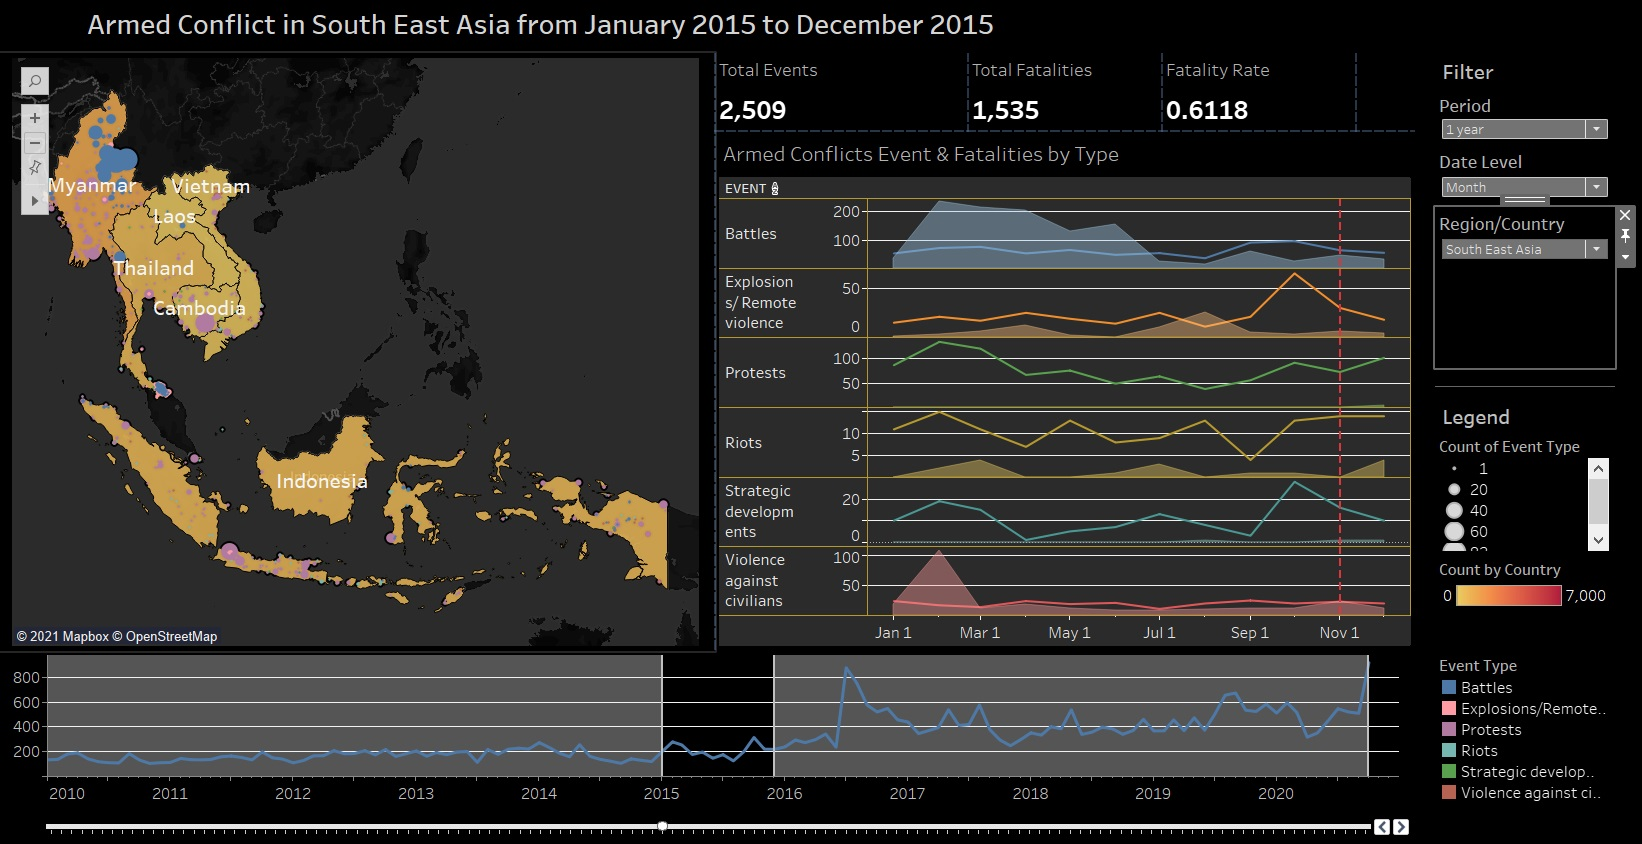
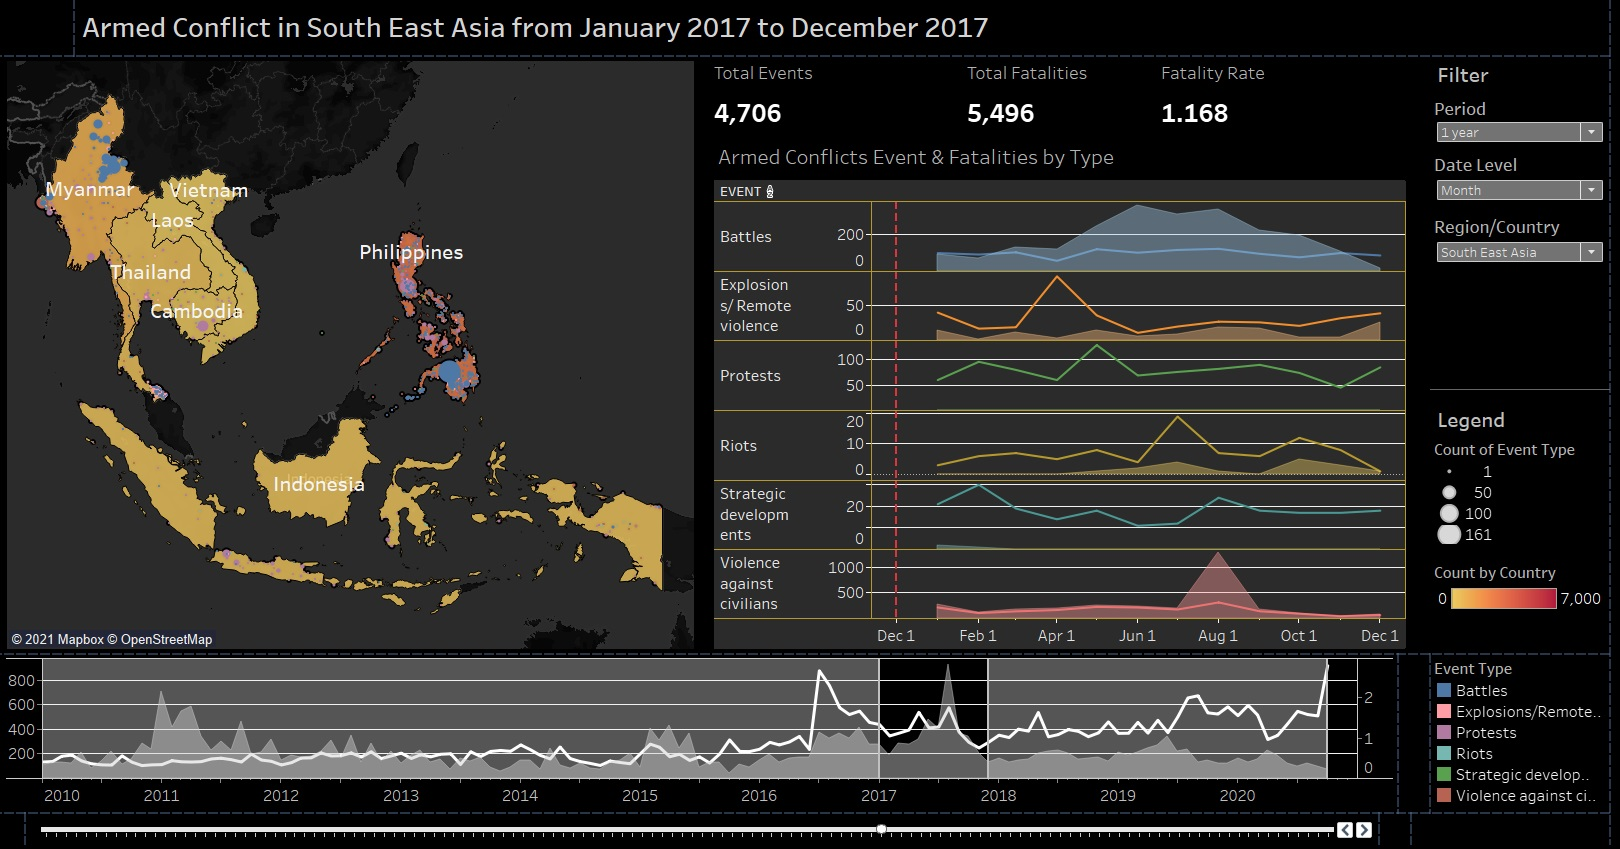
21 mar 2021 afternoon

diff --git a/_posts/dataviz3/DataViz3.html b/_posts/dataviz3/DataViz3.html
@@ -115,7 +115,7 @@ code span.wa { color: #5e5e5e; font-style: italic; } /* Warning */
   <!--/radix_placeholder_rmarkdown_metadata-->
   
   <script type="text/json" id="radix-resource-manifest">
-  {"type":"character","attributes":{},"value":["DataViz2_files/anchor-4.2.2/anchor.min.js","DataViz2_files/bowser-1.9.3/bowser.min.js","DataViz2_files/distill-2.2.21/template.v2.js","DataViz2_files/jquery-1.11.3/jquery.min.js","DataViz2_files/webcomponents-2.0.0/webcomponents.js","DataViz3_files/anchor-4.2.2/anchor.min.js","DataViz3_files/bowser-1.9.3/bowser.min.js","DataViz3_files/distill-2.2.21/template.v2.js","DataViz3_files/header-attrs-2.6/header-attrs.js","DataViz3_files/jquery-1.11.3/jquery.min.js","DataViz3_files/webcomponents-2.0.0/webcomponents.js","DataViz3_Images/Alternate.jpg","DataViz3_Images/Alternate1.jpg","DataViz3_Images/Critique.jpg","DataViz3_Images/Critique_2.jpg","DataViz3_Images/Critique_3.jpg","DataViz3_Images/Critique_4.jpg","DataViz3_Images/ob1.jpg","DataViz3_Images/ob2.jpg","DataViz3_Images/step1_a.jpg","DataViz3_Images/step1_b.jpg","DataViz3_Images/step10.jpg","DataViz3_Images/step11.jpg","DataViz3_Images/step12.jpg","DataViz3_Images/step13.jpg","DataViz3_Images/step14.jpg","DataViz3_Images/step15.jpg","DataViz3_Images/step16.jpg","DataViz3_Images/step17.jpg","DataViz3_Images/step18.jpg","DataViz3_Images/step19.jpg","DataViz3_Images/step2.jpg","DataViz3_Images/step20.jpg","DataViz3_Images/step20_2.jpg","DataViz3_Images/step20_3.jpg","DataViz3_Images/step20_4.jpg","DataViz3_Images/step20_5.jpg","DataViz3_Images/step20_6.jpg","DataViz3_Images/step21.jpg","DataViz3_Images/step22.jpg","DataViz3_Images/step23.jpg","DataViz3_Images/step24.jpg","DataViz3_Images/step25.jpg","DataViz3_Images/step26.jpg","DataViz3_Images/step27.jpg","DataViz3_Images/step28.jpg","DataViz3_Images/step29.jpg","DataViz3_Images/step3.jpg","DataViz3_Images/step30.jpg","DataViz3_Images/step31.jpg","DataViz3_Images/step32.jpg","DataViz3_Images/step33.jpg","DataViz3_Images/step34.jpg","DataViz3_Images/step35.jpg","DataViz3_Images/step36.jpg","DataViz3_Images/step37.jpg","DataViz3_Images/step38.jpg","DataViz3_Images/step39.jpg","DataViz3_Images/step4.jpg","DataViz3_Images/step40.jpg","DataViz3_Images/step41.jpg","DataViz3_Images/step42.jpg","DataViz3_Images/step43.jpg","DataViz3_Images/step44.jpg","DataViz3_Images/step45.jpg","DataViz3_Images/step46.jpg","DataViz3_Images/step47.jpg","DataViz3_Images/step48.jpg","DataViz3_Images/step49.jpg","DataViz3_Images/step5.jpg","DataViz3_Images/step50.jpg","DataViz3_Images/step51.jpg","DataViz3_Images/step52.jpg","DataViz3_Images/step53.jpg","DataViz3_Images/step54.jpg","DataViz3_Images/step55.jpg","DataViz3_Images/step56.jpg","DataViz3_Images/step57.jpg","DataViz3_Images/step58.jpg","DataViz3_Images/step59.jpg","DataViz3_Images/step6.jpg","DataViz3_Images/step60.jpg","DataViz3_Images/step61.jpg","DataViz3_Images/step62.jpg","DataViz3_Images/step63.jpg","DataViz3_Images/step64.jpg","DataViz3_Images/step65.jpg","DataViz3_Images/step66.jpg","DataViz3_Images/step7.jpg","DataViz3_Images/step8.jpg","DataViz3_Images/step9.jpg"]}
+  {"type":"character","attributes":{},"value":["DataViz2_files/anchor-4.2.2/anchor.min.js","DataViz2_files/bowser-1.9.3/bowser.min.js","DataViz2_files/distill-2.2.21/template.v2.js","DataViz2_files/jquery-1.11.3/jquery.min.js","DataViz2_files/webcomponents-2.0.0/webcomponents.js","DataViz3_files/anchor-4.2.2/anchor.min.js","DataViz3_files/bowser-1.9.3/bowser.min.js","DataViz3_files/distill-2.2.21/template.v2.js","DataViz3_files/header-attrs-2.6/header-attrs.js","DataViz3_files/jquery-1.11.3/jquery.min.js","DataViz3_files/webcomponents-2.0.0/webcomponents.js","DataViz3_Images/Alternate.jpg","DataViz3_Images/Alternate1.jpg","DataViz3_Images/Critique.jpg","DataViz3_Images/Critique_2.jpg","DataViz3_Images/Critique_3.jpg","DataViz3_Images/Critique_4.jpg","DataViz3_Images/extra1.jpg","DataViz3_Images/extra2.jpg","DataViz3_Images/extra3.jpg","DataViz3_Images/extra4.jpg","DataViz3_Images/extra5.jpg","DataViz3_Images/ob1.jpg","DataViz3_Images/ob2.jpg","DataViz3_Images/ob3.jpg","DataViz3_Images/ob4.jpg","DataViz3_Images/ob4_2.jpg","DataViz3_Images/ob5.jpg","DataViz3_Images/step1_a.jpg","DataViz3_Images/step1_b.jpg","DataViz3_Images/step10.jpg","DataViz3_Images/step11.jpg","DataViz3_Images/step12.jpg","DataViz3_Images/step13.jpg","DataViz3_Images/step14.jpg","DataViz3_Images/step15.jpg","DataViz3_Images/step16.jpg","DataViz3_Images/step17.jpg","DataViz3_Images/step18.jpg","DataViz3_Images/step19.jpg","DataViz3_Images/step2.jpg","DataViz3_Images/step20.jpg","DataViz3_Images/step20_2.jpg","DataViz3_Images/step20_3.jpg","DataViz3_Images/step20_4.jpg","DataViz3_Images/step20_5.jpg","DataViz3_Images/step20_6.jpg","DataViz3_Images/step21.jpg","DataViz3_Images/step22.jpg","DataViz3_Images/step23.jpg","DataViz3_Images/step24.jpg","DataViz3_Images/step25.jpg","DataViz3_Images/step26.jpg","DataViz3_Images/step27.jpg","DataViz3_Images/step28.jpg","DataViz3_Images/step29.jpg","DataViz3_Images/step3.jpg","DataViz3_Images/step30.jpg","DataViz3_Images/step31.jpg","DataViz3_Images/step32.jpg","DataViz3_Images/step33.jpg","DataViz3_Images/step34.jpg","DataViz3_Images/step35.jpg","DataViz3_Images/step36.jpg","DataViz3_Images/step37.jpg","DataViz3_Images/step38.jpg","DataViz3_Images/step39.jpg","DataViz3_Images/step4.jpg","DataViz3_Images/step40.jpg","DataViz3_Images/step41.jpg","DataViz3_Images/step42.jpg","DataViz3_Images/step43.jpg","DataViz3_Images/step44.jpg","DataViz3_Images/step45.jpg","DataViz3_Images/step46.jpg","DataViz3_Images/step47.jpg","DataViz3_Images/step48.jpg","DataViz3_Images/step49.jpg","DataViz3_Images/step5.jpg","DataViz3_Images/step50.jpg","DataViz3_Images/step51.jpg","DataViz3_Images/step52.jpg","DataViz3_Images/step53.jpg","DataViz3_Images/step54.jpg","DataViz3_Images/step55.jpg","DataViz3_Images/step56.jpg","DataViz3_Images/step57.jpg","DataViz3_Images/step58.jpg","DataViz3_Images/step59.jpg","DataViz3_Images/step6.jpg","DataViz3_Images/step60.jpg","DataViz3_Images/step61.jpg","DataViz3_Images/step62.jpg","DataViz3_Images/step63.jpg","DataViz3_Images/step64.jpg","DataViz3_Images/step65.jpg","DataViz3_Images/step66.jpg","DataViz3_Images/step7.jpg","DataViz3_Images/step8.jpg","DataViz3_Images/step9.jpg"]}
   </script>
   <!--radix_placeholder_navigation_in_header-->
   <!--/radix_placeholder_navigation_in_header-->
@@ -1707,6 +1707,15 @@ img {
 <figure>
 <img src="DataViz3_Images/step38.jpg" style="width:100.0%" alt="The color is solved" /><figcaption aria-hidden="true">The color is solved</figcaption>
 </figure>
+<p>Unfortunately, setting a fixed value for the color has its shortcoming as the next step is to add a parameter to allow user to dynamically switch the choropleth from “No. of events” to “fatality” or even “fatality rate”; “No. of events” and “fatality” have different range and fixing it will cause a misrepresentation of the colors.</p>
+<p>Nonetheless, the parameter to toggle between different statistic of interest has the following settings.</p>
+<figure>
+<img src="DataViz3_Images/extra3.jpg" style="width:70.0%" alt="Parameter setting for statistics selection" /><figcaption aria-hidden="true">Parameter setting for statistics selection</figcaption>
+</figure>
+<p>An accompanying calculated field is used to allow user to toggle the statistics.</p>
+<figure>
+<img src="DataViz3_Images/extra4.jpg" style="width:100.0%" alt="Parameter setting for statistics selection" /><figcaption aria-hidden="true">Parameter setting for statistics selection</figcaption>
+</figure>
 <p>Same [Event Date (ref)] filter will be applied to this worksheet so that the visualization would change accordingly based on the selection in the Slider.</p>
 <figure>
 <img src="DataViz3_Images/step39.jpg" style="width:70.0%" alt="Filter setting on Event Date (Ref)" /><figcaption aria-hidden="true">Filter setting on Event Date (Ref)</figcaption>
@@ -1815,6 +1824,16 @@ img {
 <figure>
 <img src="DataViz3_Images/step65.jpg" style="width:90.0%" alt="Settings to insert are graph to show fatalities" /><figcaption aria-hidden="true">Settings to insert are graph to show fatalities</figcaption>
 </figure>
+<p>To make the slider to be more consistent with the rest of the visualization, an area graph showing fatality is added and the color of the charts are changed to white to avoid having the same color as the stacked line chart.</p>
+<p>The setting of the slider can be seen here.</p>
+<figure>
+<img src="DataViz3_Images/extra1.jpg" style="width:90.0%" alt="Fatality area chart added to the slider and te color was changed to white" /><figcaption aria-hidden="true">Fatality area chart added to the slider and te color was changed to white</figcaption>
+</figure>
+<p>It is ensured that the filters selected on the dashboard of one worksheet will be reflected to the rest.</p>
+<p>A filter action is required as selection of the country on the map would not result in a filter of the data. The setting of the action is shown below. With this action, any selection of country on the map will filter the data accordingly across the dashboard and any release of it will un-filter.</p>
+<figure>
+<img src="DataViz3_Images/extra5.jpg" style="width:70.0%" alt="Setting of action filter" /><figcaption aria-hidden="true">Setting of action filter</figcaption>
+</figure>
 <p>With all of the changes made, the final dashboard is completed.</p>
 <figure>
 <img src="DataViz3_Images/step66.jpg" style="width:100.0%" alt="Final Dashboard" /><figcaption aria-hidden="true">Final Dashboard</figcaption>
@@ -1831,6 +1850,19 @@ img {
 <img src="DataViz3_Images/ob2.jpg" style="width:100.0%" alt="Vietnam" /><figcaption aria-hidden="true">Vietnam</figcaption>
 </figure>
 <p>Vietnam recorded the lowest number of fatality and fatality rate among the countries listed in the visualization. From the perspective of the ACLED, Vietnam might be one of the safest country among the countries listed in the visualization.</p>
+<h3 id="armed-conflict-events-are-on-the-rise-in-south-east-asia-region">Armed conflict events are on the rise in South East Asia region</h3>
+<figure>
+<img src="DataViz3_Images/ob3.jpg" style="width:100.0%" alt="Rising number of armed conflicts" /><figcaption aria-hidden="true">Rising number of armed conflicts</figcaption>
+</figure>
+<p>There is a upwards trend for the number of events being recorded in the South East Asia region over the years. While the fatality rate is relatively low, the fact that the number is on the rise can be a concern as this can be a sign of destabilization of the region. Hence, there is a greater need for the ASEAN leaders to work toegether to safeguard the stability of the region.</p>
+<h3 id="myanmar-and-philippines-with-the-highest-fatality-in-the-region">Myanmar and Philippines with the highest fatality in the region</h3>
+<p><img src="DataViz3_Images/ob4.jpg" style="width:100.0%" alt="High no. of events in Myanmar and Philippines" /> <img src="DataViz3_Images/ob4_2.jpg" style="width:100.0%" alt="High fatalities in Myanmar and Philippines" /></p>
+<p>Myanmar and Philippines have have the highest number of fatalities and armed conflict events over the years and this is due to various internal issues the countries are facing. Hence, regional leaders may offer to do more to aid these 2 countries to ensure stability of the region.</p>
+<h3 id="conflict-zones-that-have-violent-events-often-take-place-at-border-region-or-region-further-away-from-central-authority">Conflict zones that have violent events often take place at border region or region further away from central authority</h3>
+<figure>
+<img src="DataViz3_Images/ob5.jpg" style="width:100.0%" alt="Violent events in South East Asia" /><figcaption aria-hidden="true">Violent events in South East Asia</figcaption>
+</figure>
+<p>Violent events such as battles and explosions often take place at border region or region further away from central authority. This is expected as the border regions can be a safe haven for insurgents.</p>
 <div class="sourceCode" id="cb1"><pre class="sourceCode r distill-force-highlighting-css"><code class="sourceCode r"></code></pre></div>
 <!--radix_placeholder_article_footer-->
 <!--/radix_placeholder_article_footer-->
